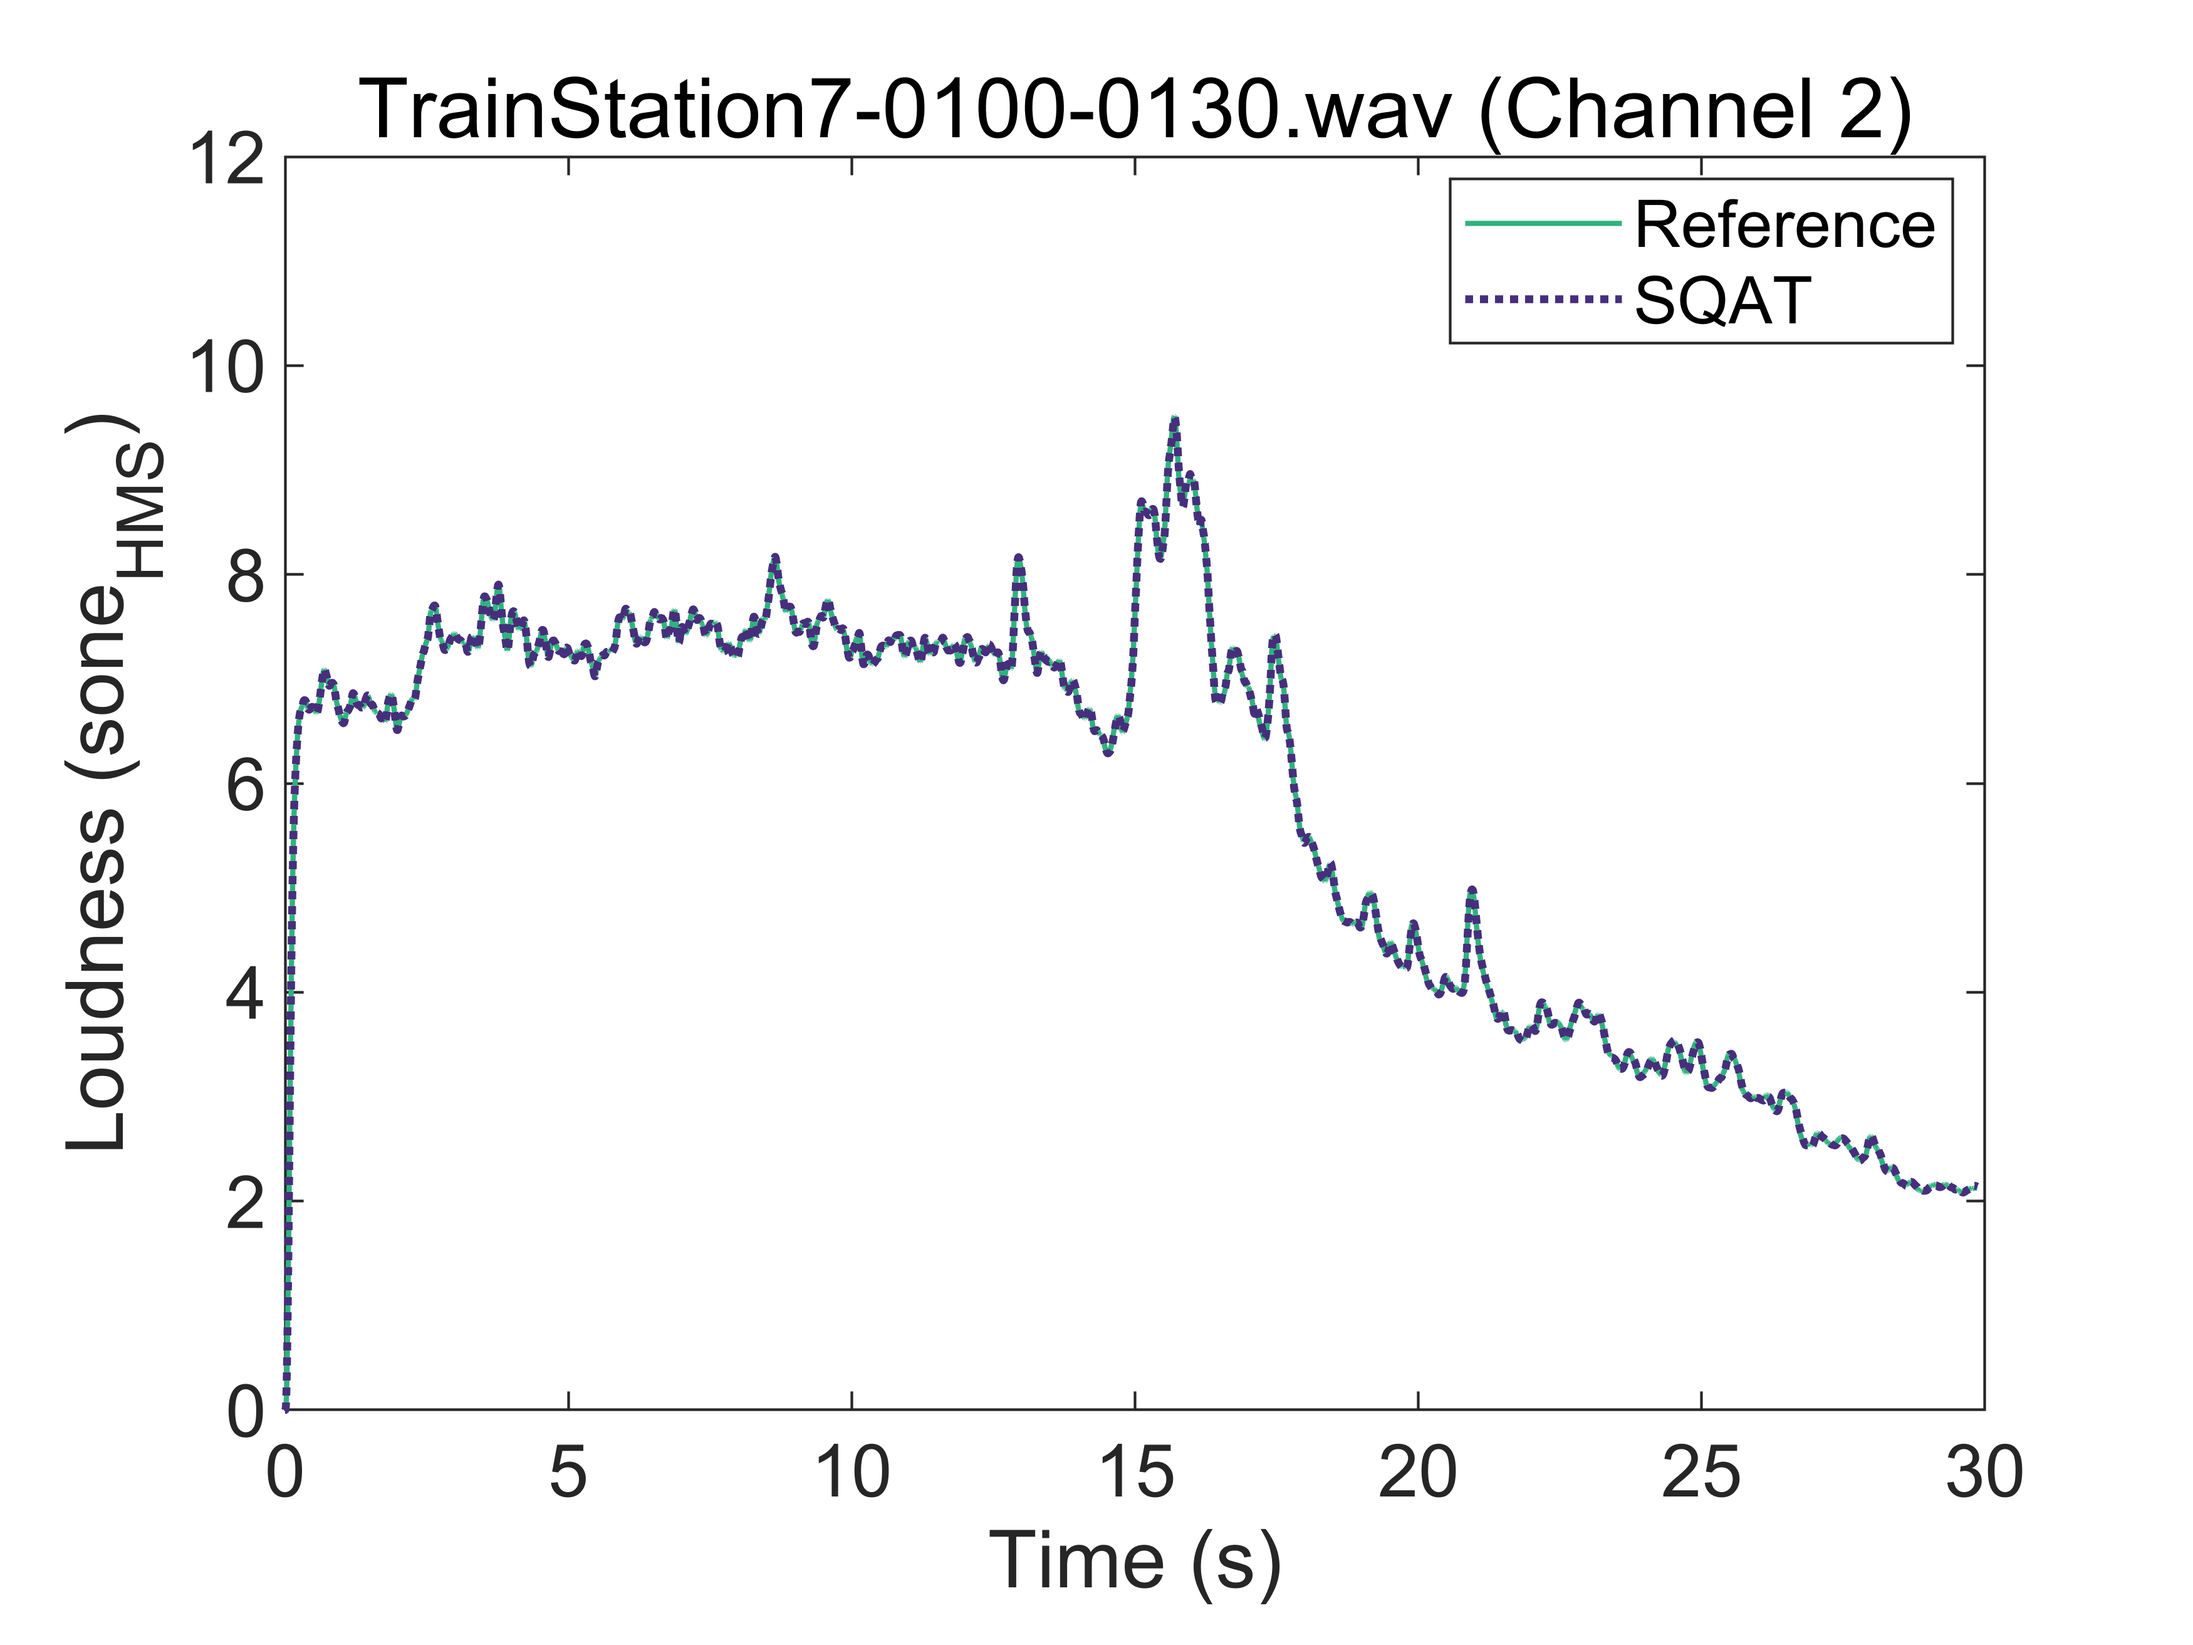
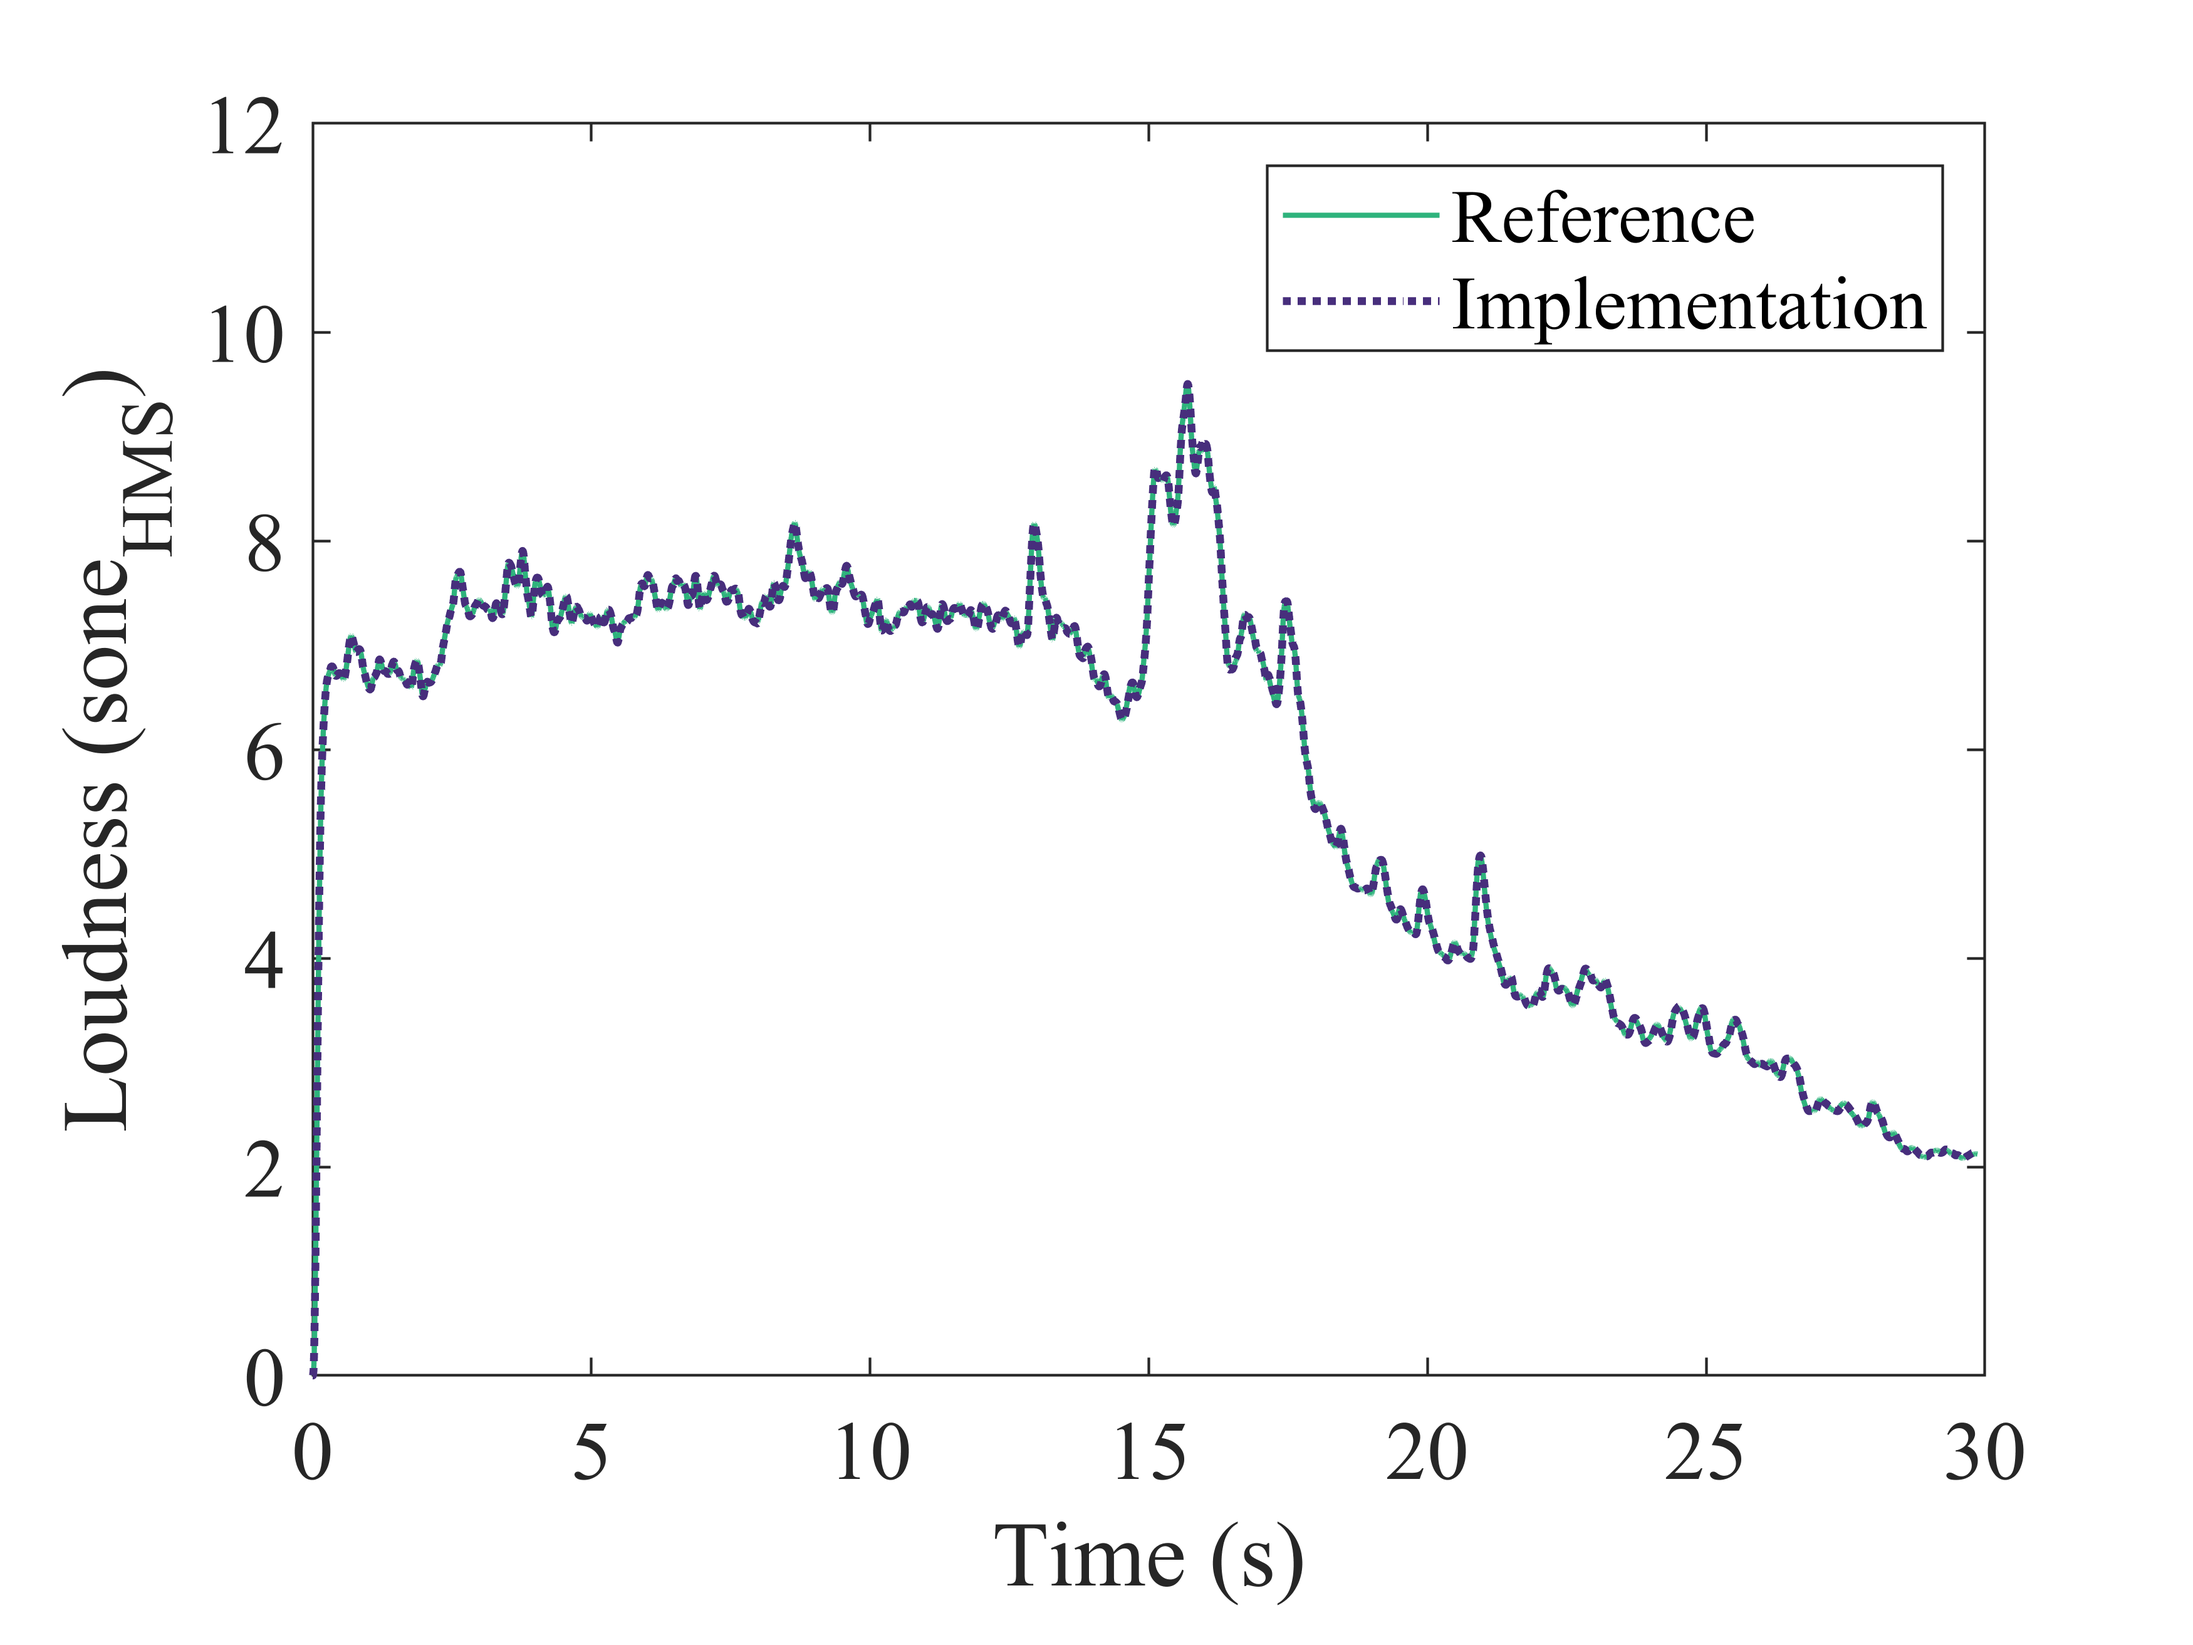
2_Loudness_ECMA418_2_software_comparison
- including time-dependent specific loudness p

diff --git a/validation/Loudness_ECMA418_2/2_Loudness_ECMA418_2_software_comparison/Loudness_ECMA418_2_software_comparison.m b/validation/Loudness_ECMA418_2/2_Loudness_ECMA418_2_software_comparison/Loudness_ECMA418_2_software_comparison.m
@@ -148,6 +148,40 @@ label_fig = [wav_file '_singleValues_Loudness'];
 
 il_plt_singleValues(single_values, label_title, save_figs,  label_fig)
 
+%% plot - time-dependent specific loudness
+
+% plot -  commercial software (Channel 1)
+xAxis =  ref_results.Spec_TDep_channel_1(2:end,1) ; % time vector
+yAxis =  ref_results.Spec_TDep_channel_1(1, 2:end) ; % freq vector
+zAxis =  ref_results.Spec_TDep_channel_1(2:end, 2:end) ; % specific loudness
+label_fig = [wav_file ' (Channel 1)' '_tDep_Specific_Loudness_ref'];
+
+il_plt_spectrogram(xAxis, yAxis, zAxis', save_figs,  label_fig)
+
+% plot -  commercial software (Channel 2)
+xAxis =  ref_results.Spec_TDep_channel_2(2:end,1) ; % time vector
+yAxis =  ref_results.Spec_TDep_channel_2(1, 2:end) ; % freq vector
+zAxis =  ref_results.Spec_TDep_channel_2(2:end, 2:end) ; % specific loudness
+label_fig = [wav_file ' (Channel 1)' '_tDep_Specific_Loudness_ref'];
+
+il_plt_spectrogram(xAxis, yAxis, zAxis', save_figs,  label_fig)
+
+% plot -  implementation (Channel 1)
+xAxis =  OUT.timeOut; % time vector
+yAxis =  OUT.bandCentreFreqs; % freq vector
+zAxis =  OUT.specLoudness(:,:,1) ; % specific loudness
+label_fig = [wav_file ' (Channel 1)' '_tDep_Specific_Loudness_implementation'];
+
+il_plt_spectrogram(xAxis, yAxis, zAxis', save_figs,  label_fig)
+
+% plot -  implementation (Channel 2)
+% xAxis =  OUT.timeOut; % time vector
+% yAxis =  OUT.bandCentreFreqs; % freq vector
+zAxis =  OUT.specLoudness(:,:,2) ; % specific loudness
+label_fig = [wav_file ' (Channel 2)' '_tDep_Specific_Loudness_implementation'];
+
+il_plt_spectrogram(xAxis, yAxis, zAxis', save_figs,  label_fig)
+
 %% function / plot - time-varying quantity
 
 function il_plt_tDep(xRef, yRef, xSQAT, ySQAT, label_title, save_figs,  label_fig)
@@ -171,17 +205,17 @@ plot(xSQAT, ySQAT, ':', 'Color', cmap(cmap2, :), 'Linewidth', 1.5);
 xlabel('Time (s)');
 ylabel('Loudness (sone_{HMS})');
 
-legend('Reference', 'SQAT', 'Location', 'Best');
+legend('Reference', 'Implementation', 'Location', 'NE');
 set(gcf,'color','w');
 
 ylim([0 12]);
 
-title(label_title);
+% title(label_title);
 
-ax.FontName = 'Arial';
-ax.FontSize = 14;
-ax.Title.FontWeight = 'normal';
-ax.Title.FontSize = 16;
+ax.FontName = 'Times';
+ax.FontSize = 16;
+% ax.Title.FontWeight = 'normal';
+% ax.Title.FontSize = 16;
 
 if save_figs==1
     figures_dir = [fileparts(mfilename('fullpath')) filesep 'figs' filesep];
@@ -253,21 +287,21 @@ xticks(barkAxis);
 
 ylim([0 0.6]);
 
-title(label_title);
+% title(label_title);
 
-ax.FontName = 'Arial';
-ax.FontSize = 14;
-ax.Title.FontWeight = 'normal';
-ax.Title.FontSize = 16;
+ax.FontName = 'Times';
+ax.FontSize = 16;
+% ax.Title.FontWeight = 'normal';
+% ax.Title.FontSize = 16;
 
 yyaxis right;
 c = plot( barkAxis, ySQAT-yRef, 'k*-');
 
-ylabel( 'SQAT-Reference (sone_{HMS}/Bark_{HMS})' );
+ylabel( 'Implementation-Reference (sone_{HMS}/Bark_{HMS})' );
 
 ylim([-0.002 0.002]);
 
-legend([a b c], {'Reference', 'SQAT', 'SQAT - Reference'});
+legend([a b c], {'Reference', 'Implementation', 'Implementation - Reference'});
 
 set(h,'color','w');
 
@@ -295,7 +329,8 @@ end
 function il_plt_singleValues(single_values, label_title, save_figs,  label_fig)
 
 % Single values
-h  =figure('Position', [200, 200, 550, 550]);
+% h  =figure('Position', [200, 200, 550, 550]);
+h  =figure;
 set(h,'Units','Inches');
 pos = get(h,'Position');
 set(h,'PaperPositionMode','Auto','PaperUnits','Inches','PaperSize',[pos(3), pos(4)])
@@ -315,16 +350,71 @@ for bb = 1:length(br)
         'VerticalAlignment','bottom', 'FontSize', 12)
 end
 
-ylim([0 round(max(single_values(1))+2)]);
+ylim([0 round(max(single_values(1))+5)]);
 
-legend('Reference', 'SQAT', 'Location', 'NE');
+legend('Reference', 'Implementation', 'Location', 'NE');
 
-t=title(label_title);
+% t=title(label_title);
 
-t.FontWeight = 'normal';
-t.FontSize = 16;
+% t.FontWeight = 'normal';
+% t.FontSize = 16;
+ax = gca;
+ax.FontName = 'Times';
+ax.FontSize = 16;
 
 set(gcf,'color','w');
+
+if save_figs==1
+    figures_dir = [fileparts(mfilename('fullpath')) filesep 'figs' filesep];
+    if ~exist(figures_dir,'dir')
+        mkdir(figures_dir);
+    end
+    figname_short = label_fig;
+    figname_out = [figures_dir figname_short];
+
+    resolution = '-r600'; % Default resolution of 600 DPI
+
+    % saveas(gcf,figname_out, 'fig');
+    % print( gcf, figname_out, '-dpdf', resolution );
+    print( gcf, figname_out,  '-dpng', resolution );
+
+    fprintf('\n%s.m: figure %s was saved on disk\n\t(full name: %s)\n',mfilename,figname_short,figname_out);
+end
+
+end
+
+%% function / plot spectrogram
+
+function il_plt_spectrogram(xAxis, yAxis, zAxis, save_figs,  label_fig)
+
+h  =figure;
+set(h,'Units','Inches');
+pos = get(h,'Position');
+set(h,'PaperPositionMode','Auto','PaperUnits','Inches','PaperSize',[pos(3), pos(4)])
+movegui(h, 'center');
+
+
+[xx,yy] = meshgrid(xAxis, yAxis);
+xx(1) = 0;  % truncating first idx of time to zero (just a visual thing because ref results may not start exactly on zero)
+pcolor(xx, yy, zAxis);
+shading interp; colorbar; axis tight;
+cMap  = load('cmap_viridis.txt'); colormap(cMap);
+
+ax = gca;
+ax.YTick = [63, 125, 250, 500, 1e3, 2e3, 4e3, 8e3, 16e3];
+ax.YTickLabel = ["63", "125", "250", "500", "1k", "2k", "4k","8k", "16k"];
+ax.YScale = 'log';
+ax.YLabel.String = 'Frequency (Hz)';
+ax.XLabel.String = 'Time (s)';
+
+ h = colorbar;
+ zString = 'Specific loudness (sone_{HMS}/Bark_{HMS})';
+ set(get(h,'label'),'string', zString);
+
+ box on
+ set(gca,'layer','top');
+
+ set(gcf,'color','w');
 
 if save_figs==1
     figures_dir = [fileparts(mfilename('fullpath')) filesep 'figs' filesep];

diff --git a/validation/Loudness_ECMA418_2/2_Loudness_ECMA418_2_software_comparison/README.md b/validation/Loudness_ECMA418_2/2_Loudness_ECMA418_2_software_comparison/README.md
@@ -1,6 +1,6 @@
 # About this code 
 
-The `Loudness_ECMA418_2_software_comparison.m` code compares loudness results (ECMA-418-2 model [1]) obtained in a commercial software and using the implementation in SQAT (see `Loudness_ECMA418_2.m` code [here](../../../psychoacoustic_metrics/Loudness_ECMA418_2/Loudness_ECMA418_2.m)). To perform this study, a binaural file recorded in a 'train station' environment is used. The signal 'TrainStation.7.wav' was extracted from the EigenScape database [(link)](https://zenodo.org/doi/10.5281/zenodo.1012808), and trimmed between 01m00s and 01m30s. The EigenScape database, which is described by 
+The `Loudness_ECMA418_2_software_comparison.m` code compares loudness results (ECMA-418-2 model [1]) obtained using a commercial software (ref. results) and using the implementation in SQAT (see `Loudness_ECMA418_2.m` code [here](../../../psychoacoustic_metrics/Loudness_ECMA418_2/Loudness_ECMA418_2.m)). To perform this study, a binaural file recorded in a 'train station' environment is used. The signal 'TrainStation.7.wav' was extracted from the EigenScape database [(link)](https://zenodo.org/doi/10.5281/zenodo.1012808), and trimmed between 01m00s and 01m30s. The EigenScape database, which is described by 
 Green et al. [2], is licenced under Creative Commons Attribution 4.0.   
 
 <!-- Artemis Suite 15.7-->
@@ -13,15 +13,40 @@ The following sound file is required: `ExStereo_TrainStation7-0100-0130.wav`, wh
 
 ## Time-dependent loudness
 
-<img src='figs/TrainStation7-0100-0130 (Channel 1)_TDep_Loudness.png' width=500> <img src='figs/TrainStation7-0100-0130 (Channel 2)_TDep_Loudness.png' width=500> <img src='figs/TrainStation7-0100-0130 (combined binaural)_TDep_Loudness.png' width=500>
+| Channel 1       | Channel 2          |
+| -------------- | -------------- |
+| <img src='figs/TrainStation7-0100-0130 (Channel 1)_TDep_Loudness.png' width=500>  | <img src='figs/TrainStation7-0100-0130 (Channel 2)_TDep_Loudness.png' width=500>  |
+
+Combined binaural |  
+:-------------------------:| 
+| <img src='figs/TrainStation7-0100-0130 (combined binaural)_TDep_Loudness.png' width=500>|  
+
+
 
 ## Time-averaged specific loudness
 
-<img src='figs/TrainStation7-0100-0130 (Channel 1)_avgSpecific_Loudness.png' width=1000> 
+Channel 1  |  
+:-------------------------:| 
+| <img src='figs/TrainStation7-0100-0130 (Channel 1)_avgSpecific_Loudness.png' width=1000> | 
 
-<img src='figs/TrainStation7-0100-0130 (Channel 2)_avgSpecific_Loudness.png' width=1000> 
+Channel 2 |  
+:-------------------------:| 
+| <img src='figs/TrainStation7-0100-0130 (Channel 2)_avgSpecific_Loudness.png' width=1000> | 
 
-<img src='figs/TrainStation7-0100-0130 (Combined binaural)_avgSpecific_Loudness.png' width=1000>
+Combined binaural |  
+:-------------------------:| 
+| <img src='figs/TrainStation7-0100-0130 (Combined binaural)_avgSpecific_Loudness.png' width=1000>| 
+
+## Time-dependent specific loudness
+
+| Reference (channel 1)       | Reference (channel 2)          |
+| -------------- | -------------- |
+| <img src='figs/TrainStation7-0100-0130 (Channel 1)_tDep_Specific_Loudness_ref.png' width=500>  | <img src='figs/TrainStation7-0100-0130 (Channel 2)_tDep_Specific_Loudness_ref.png' width=500>  |
+
+| Implementation (channel 1)       | Implementation (channel 2)          |
+| -------------- | -------------- |
+| <img src='figs/TrainStation7-0100-0130 (Channel 1)_tDep_Specific_Loudness_implementation.png' width=500>  | <img src='figs/TrainStation7-0100-0130 (Channel 2)_tDep_Specific_Loudness_implementation.png' width=500>  |
+
 
 ## Overall loudness
 
@@ -34,7 +59,7 @@ The following sound file is required: `ExStereo_TrainStation7-0100-0130.wav`, wh
 
 
 # Log
-Last checked by: Gil Felix Greco (10.02.2025)
+Last checked by: Gil Felix Greco (12.02.2025)
 
 
 
